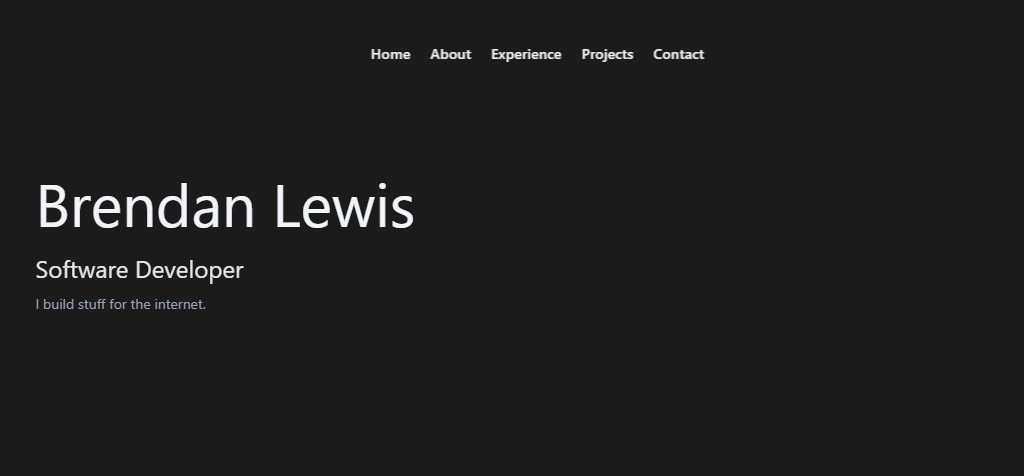
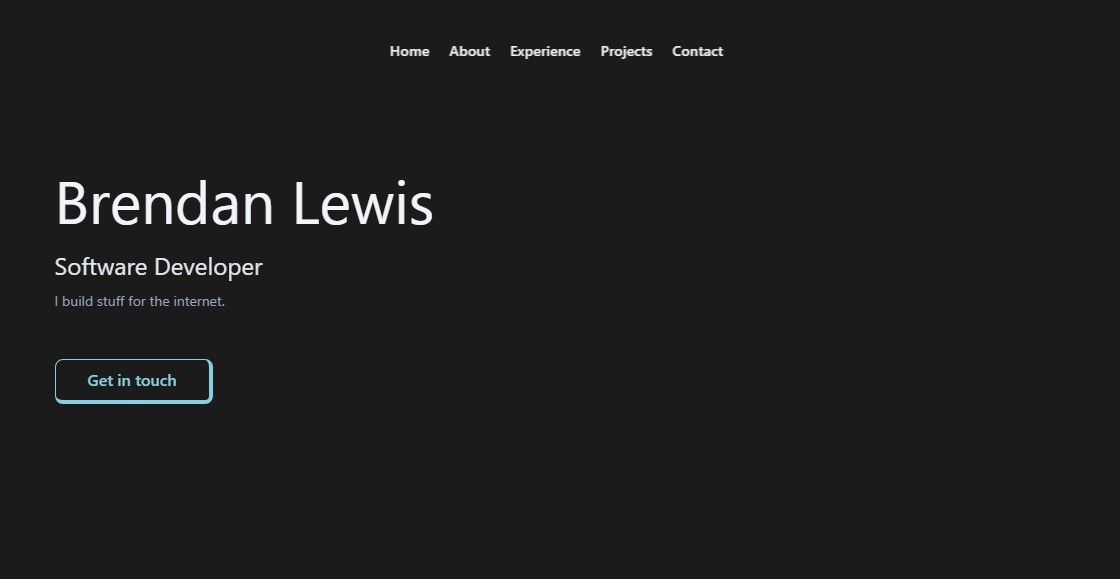
Updated button, added contact button to intro

Changed region(s): [[0.0312, 0.2941, 0.4062, 0.5882], [0.3438, 0.0588, 0.6875, 0.1471], [0.0312, 0.6176, 0.2188, 0.7059]]

diff --git a/src/app/components/contact.js b/src/app/components/contact.js
@@ -10,7 +10,7 @@ export default function Contact() {
                 <h3>Interested in learning more?</h3>
             </div>
             <div className="flex py-[48px]">
-                <a href="mailto:brendanjflewis@icloud.com"><button type="button" className="text-[#87D0E0] hover:text-[#1b1b1b] border border-[#87D0E0] hover:border-[#1b1b1b] hover:bg-[#87D0E0] hover:shadow-lg ease-in-out duration-200 py-4 px-8 rounded-full">Lets talk!</button></a>
+                <a href="mailto:brendanjflewis@icloud.com"><button type="button" className="hover:text-[#1b1b1b] hover:bg-[#87D0E0] font-medium border-b-[4px] border-t-[1px] border-l-[1px] border-r-[4px] hover:border-[#1b1b1b] ease-in-out duration-200 border-[#87D0E0] bg-[#1b1b1b] text-[#87D0E0] hover:border-b-[4px] hover:border-r-[4px] py-4 px-8 rounded-lg">Lets talk!</button></a>
             </div>
         </section>
     )

diff --git a/src/app/components/intro.js b/src/app/components/intro.js
@@ -16,6 +16,9 @@ export default function Intro() {
                     I build stuff for the internet.
                 </h3>
             </div>
+            <div className="flex py-[48px]">
+                <a href="mailto:brendanjflewis@icloud.com"><button type="button" className="hover:text-[#1b1b1b] hover:bg-[#87D0E0] font-medium border-b-[4px] border-t-[1px] border-l-[1px] border-r-[4px] hover:border-[#1b1b1b] ease-in-out duration-200 border-[#87D0E0] bg-[#1b1b1b] text-[#87D0E0] hover:border-b-[4px] hover:border-r-[4px] py-2 px-8 rounded-lg">Get in touch</button></a>
+            </div>
         </div>
     </section>
   )
